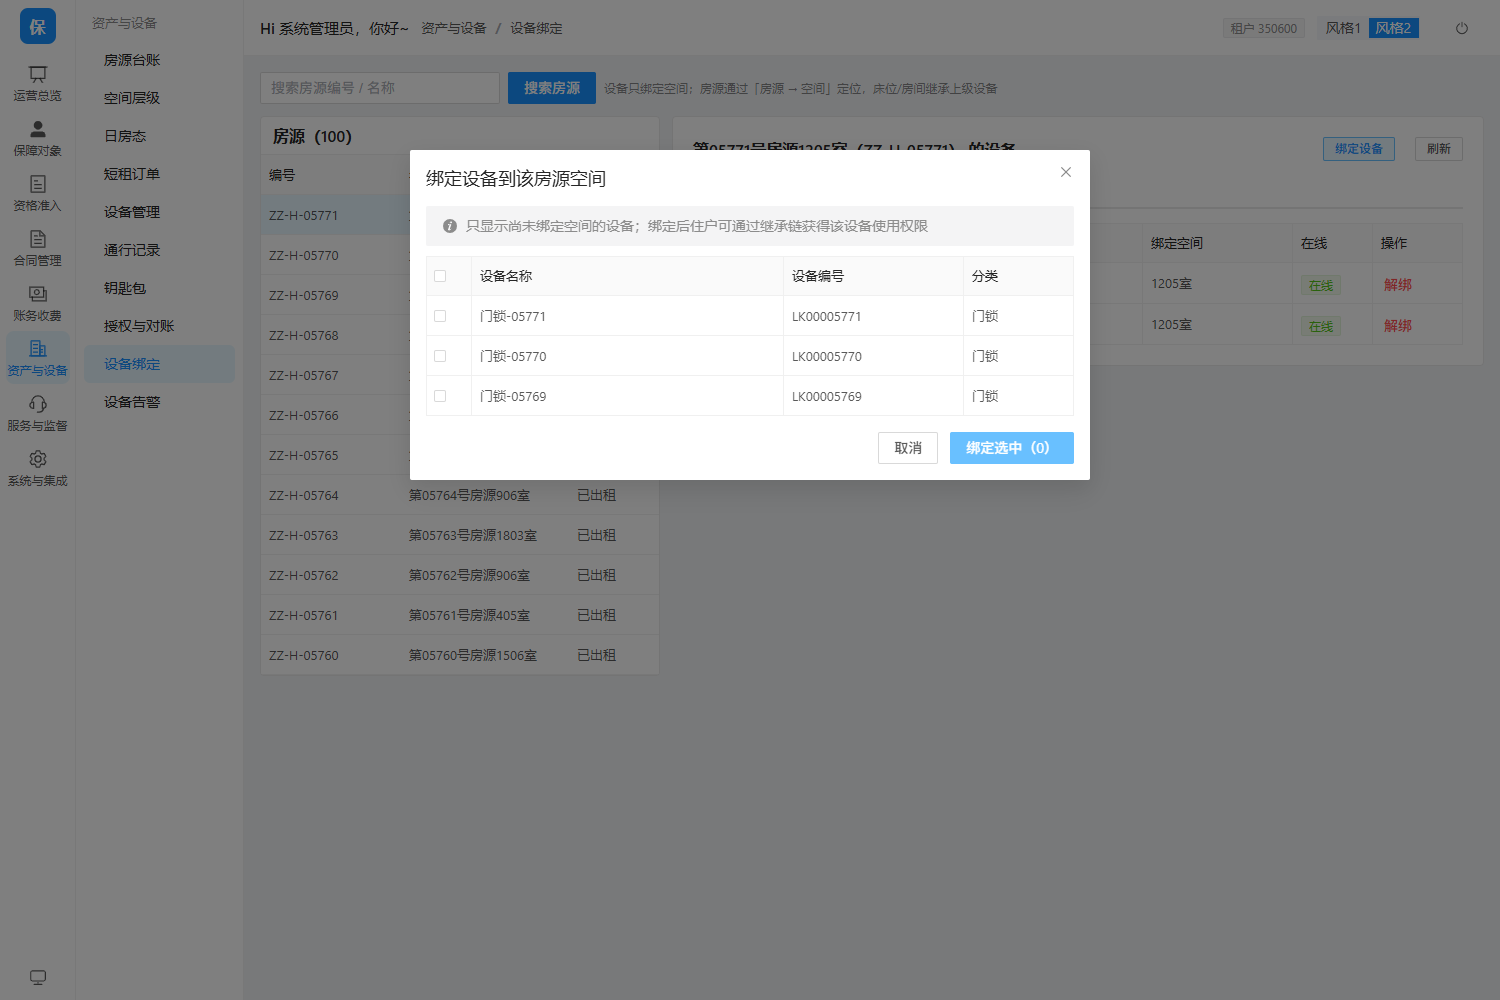
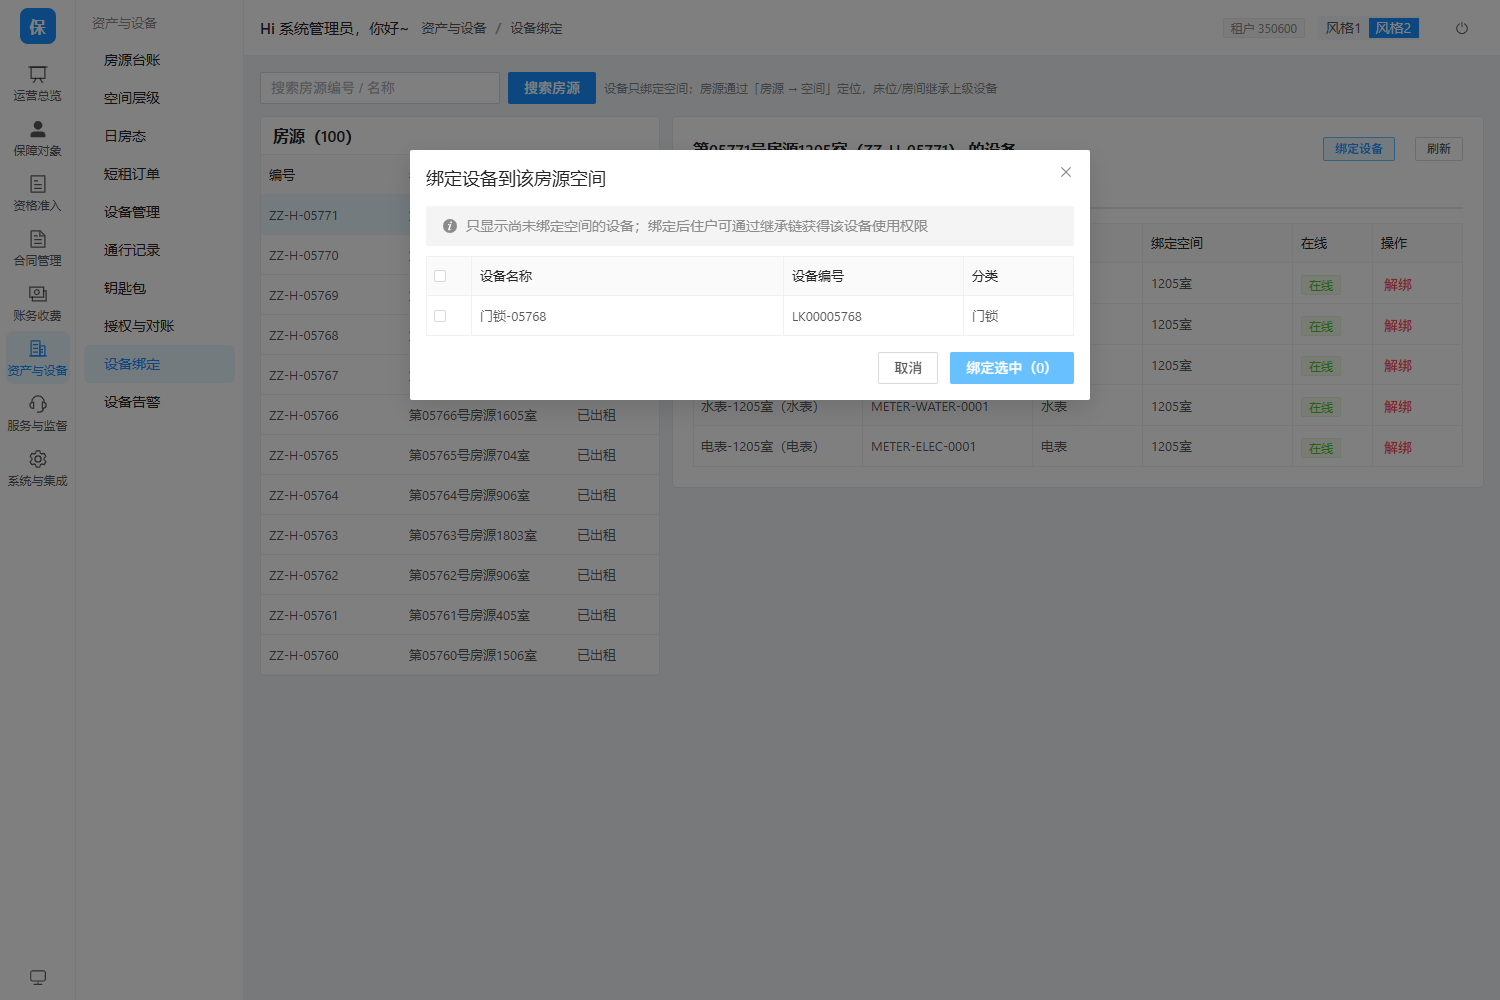
fix(dev): inherit tab should exclude own-space devices

diff --git a/_验证/device_inherit_check.js b/_验证/device_inherit_check.js
@@ -1,0 +1,73 @@
+/**
+ * 继承设备页签视觉验证：截图 + 读取设备表文本。
+ */
+const puppeteer = require('puppeteer-core')
+const path = require('path')
+const fs = require('fs')
+
+const EDGE = 'C:\\Program Files (x86)\\Microsoft\\Edge\\Application\\msedge.exe'
+const BASE = 'http://192.168.31.11:8080'
+const shots = path.join(__dirname, '_shots')
+fs.mkdirSync(shots, { recursive: true })
+
+;(async () => {
+  const browser = await puppeteer.launch({ executablePath: EDGE, headless: 'new',
+    args: ['--no-sandbox'] })
+  const page = await browser.newPage()
+  await page.setViewport({ width: 1500, height: 1000 })
+  await page.setCacheEnabled(false)
+
+  await page.goto(BASE + '/#/login', { waitUntil: 'networkidle2' })
+  await page.evaluate(() => {
+    const el = document.querySelectorAll('input')
+    const set = (i, v) => {
+      el[i].focus(); el[i].value = v
+      el[i].dispatchEvent(new Event('input', { bubbles: true }))
+      el[i].dispatchEvent(new Event('change', { bubbles: true }))
+      el[i].blur()
+    }
+    set(0, '350600'); set(1, 'admin'); set(2, 'admin123')
+  })
+  await new Promise(r => setTimeout(r, 300))
+  await page.evaluate(() => {
+    const b = Array.from(document.querySelectorAll('button'))
+      .find((x) => /登\s*录/.test(x.innerText || ''))
+    b && b.click()
+  })
+  await page.waitForFunction(() => !!document.querySelector('.rail, .el-menu, .aside'),
+    { timeout: 20000 })
+  await page.goto(BASE + '/#/device-bind', { waitUntil: 'networkidle2' })
+  await new Promise(r => setTimeout(r, 2200))
+
+  await page.evaluate(() => document.querySelector('.el-table__body tr').click())
+  await new Promise(r => setTimeout(r, 1500))
+
+  const readDeviceTable = async () => page.evaluate(() => {
+    // 右侧设备表：取包含「设备名称」表头的那张表
+    const tables = Array.from(document.querySelectorAll('.el-table'))
+    const t = tables.find((x) => (x.innerText || '').includes('设备名称'))
+    if (!t) return []
+    return Array.from(t.querySelectorAll('.el-table__body tr'))
+      .map((tr) => tr.innerText.replace(/\n+/g, ' | ').trim())
+  })
+
+  const own = await readDeviceTable()
+  console.log('本房源页签：')
+  own.forEach((r) => console.log('   ' + r))
+
+  await page.evaluate(() => {
+    const t = Array.from(document.querySelectorAll('.el-tabs__item'))
+      .find((x) => x.innerText.includes('继承'))
+    t && t.click()
+  })
+  await new Promise(r => setTimeout(r, 1800))
+  const inherit = await readDeviceTable()
+  console.log('继承页签：')
+  inherit.forEach((r) => console.log('   ' + r))
+
+  await page.screenshot({ path: path.join(shots, 'device-inherit.png') })
+  const leaked = inherit.filter((r) => r.includes('1205室'))
+  console.log(leaked.length ? '✗ 继承页签仍含本房源设备' : '✔ 继承页签不含本房源设备')
+  await browser.close()
+  process.exit(leaked.length ? 1 : 0)
+})()

diff --git a/_验证/device_bind_check.js b/_验证/device_bind_check.js
@@ -46,6 +46,27 @@ fs.mkdirSync(shots, { recursive: true })
   })
   await new Promise(r => setTimeout(r, 1500))
 
+  // 切到「继承设备」页签并记录条目
+  const inherit = await page.evaluate(async () => {
+    const tabs = Array.from(document.querySelectorAll('.el-tabs__item'))
+    const t = tabs.find((x) => x.innerText.includes('继承'))
+    if (t) { t.click(); return true }
+    return false
+  })
+  await new Promise(r => setTimeout(r, 1500))
+  const inheritRows = await page.evaluate(() =>
+    Array.from(document.querySelectorAll('.el-table__body tr'))
+      .map((tr) => tr.innerText.replace(/\n/g, ' | ')))
+  console.log('继承页签条目：', inheritRows.length)
+  inheritRows.slice(0, 5).forEach((r) => console.log('   ' + r))
+  await page.evaluate(() => {
+    const t = Array.from(document.querySelectorAll('.el-tabs__item'))
+      .find((x) => x.innerText.includes('本房源'))
+    t && t.click()
+  })
+  await new Promise(r => setTimeout(r, 1200))
+  await page.screenshot({ path: path.join(shots, 'device-inherit.png') })
+
   // 打开绑定弹窗
   const opened = await page.evaluate(() => {
     const btn = Array.from(document.querySelectorAll('button'))

diff --git a/frontend/src/views/DeviceBinding.vue b/frontend/src/views/DeviceBinding.vue
@@ -158,7 +158,8 @@ async function loadDevices() {
       const d = await req.get('/devices/inherited', {
         params: { houseId: current.value.id }
       })
-      rows.value = (d && d.devices) || []
+      // 继承页签只显示上级空间设备，排除本房源自身的设备
+      rows.value = ((d && d.devices) || []).filter((x) => x.scope === '继承')
     } else {
       const sid = current.value.spaceId
       if (!sid) {
